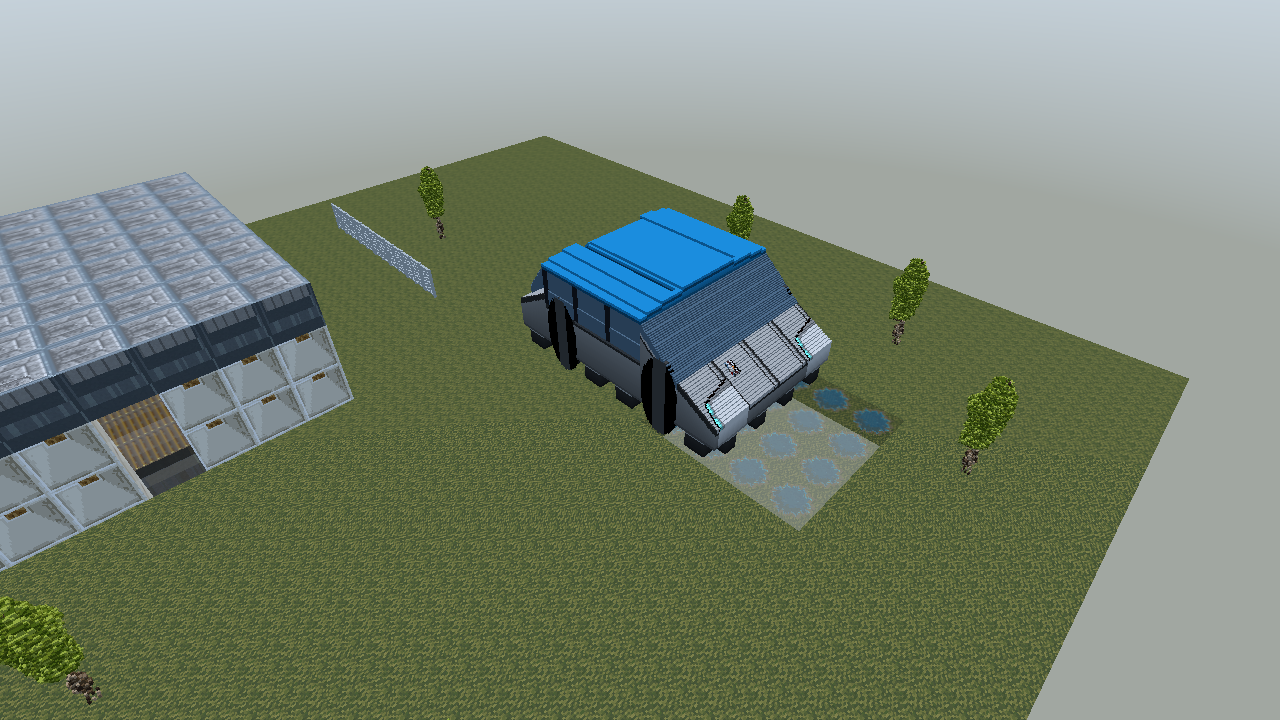
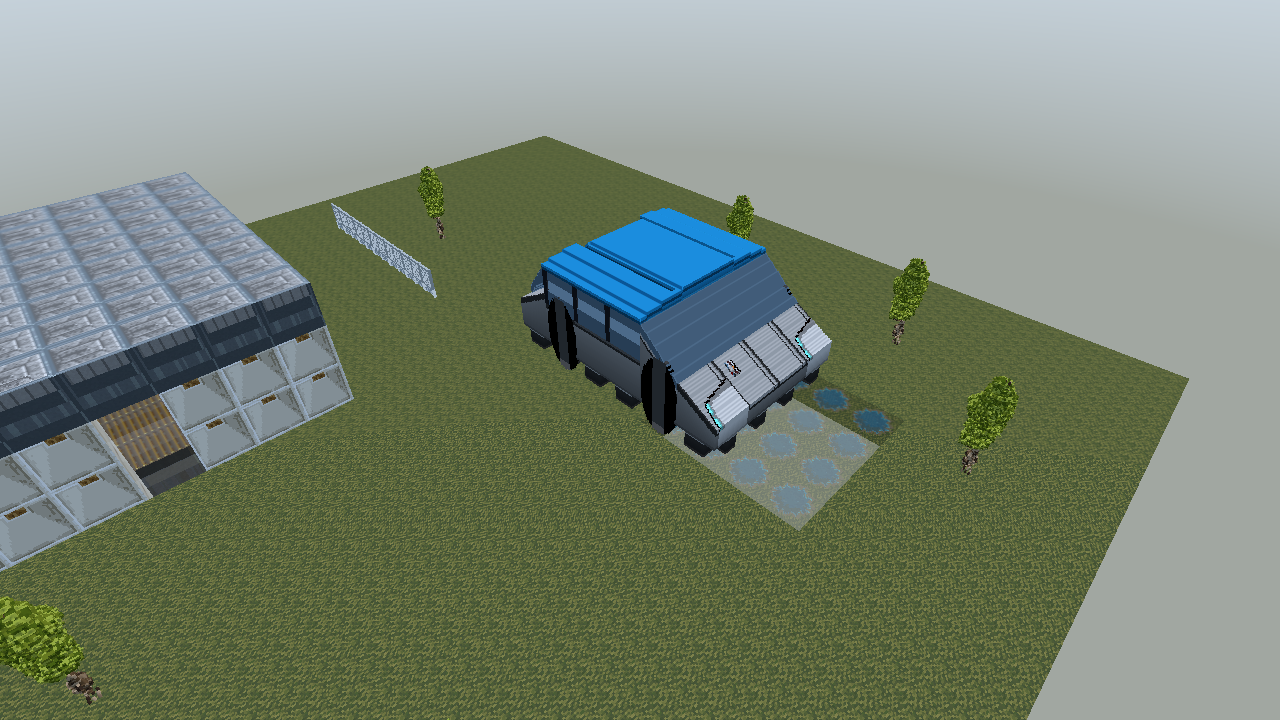
Fine slope normals S2: opt in at scene prep; risers take the plane normal
mesh_filtered_fine now passes slope_normals=true (the single fine-chunk dispatch, so live, snapshot and capture paths all shade slopes). First capture review showed top-face tilting alone left the step lines: each tread shaded as a plane but the 1-cell riser faces between treads still shaded at side-face level. riser_corner_normals extends the treatment to side faces whose neighbouring column surface sits 1..=SLOPE_EDGE_THRESHOLD below the cell top (top-edge corners from this cell's gradient, bottom-edge from the lower neighbour's at the same vertex); walls/cliffs/same-height neighbours keep axis normals. G1 gate 5/5 — the riser test was verified failing on the top-only mesher before the fix. G2: vehicle profile re-capture, 221,840 quads identical (geometry untouched), zero cover-classification changes vs tex6 (silhouette identical), windshield/hood banding gone. G3: golden/phase9/puddle gates pass unchanged — no golden fixture contains a shallow stamped slope, nothing to regen. Residual crown grooves traced to the Stage H per-face occlusion term stepping at the 1-cell steps, recorded in plan §10 as out of scope. Full mesher + engine suites green. Plan doc gains the S2 outcome.

diff --git a/crates/mesher/tests/fine_slope_normals_gate.rs b/crates/mesher/tests/fine_slope_normals_gate.rs
@@ -163,3 +163,78 @@ fn flag_off_is_the_pre_fix_mesh() {
         assert!(axis, "flag-off normal {n:?} is not axis-aligned");
     }
 }
+
+/// The ramp's downhill riser faces (the +X side faces of
+/// ramp cells, exposed because the next column is one cell
+/// lower in surface terms — here the ramp rises along +x,
+/// so the risers face -X... the exposed step faces are the
+/// +X faces of each column's top cell looking down the
+/// staircase's upper side and the -X faces looking up it;
+/// both must carry the plane normal for the staircase to
+/// shade as one surface). Concretely for a ramp rising
+/// along +x: the top cell of column lx has its +X face
+/// culled by column lx+1's cell below the top... the
+/// VISIBLE step faces are the -X faces of each top cell
+/// (against the air above column lx-1's lower top) — no:
+/// face_visible checks the neighbour CELL at the same fz.
+/// Column lx-1 has no cell at fz = top(lx), so the -X face
+/// of column lx's top cell is exposed: it is the riser.
+/// All four of its corners must carry the plane normal.
+#[test]
+fn ramp_riser_faces_carry_the_plane_normal() {
+    let scene = scene(|lx, _ly| 8 + lx);
+    let mesh = mesh(&scene, true);
+    let want = [-std::f32::consts::FRAC_1_SQRT_2, std::f32::consts::FRAC_1_SQRT_2, 0.0];
+    // Riser quads: vertical quads (verts span two world y
+    // levels) whose flat normal would be -X in world terms:
+    // world x = grid x, so a grid -X face has world normal
+    // (-1, 0, 0) when flat; smoothed, its corners tilt to
+    // `want`. Identify candidates by position: interior
+    // columns only, and by the quad's world-x extent being
+    // a single plane (all four verts share one world x).
+    let bs = WorldScale::default().block_size;
+    let lo = (4 * FINE + 5) as f32 / FINE as f32 * bs;
+    let hi = (4 * FINE + 27) as f32 / FINE as f32 * bs;
+    let mut checked = 0usize;
+    for quad in mesh.indices.chunks_exact(6) {
+        let idx: Vec<usize> = quad.iter().map(|i| *i as usize).collect();
+        let p: Vec<[f32; 3]> = idx[..4].iter().map(|&i| mesh.positions[i]).collect();
+        // Vertical plane at constant world x?
+        if p.iter().any(|v| (v[0] - p[0][0]).abs() > 1e-4) {
+            continue;
+        }
+        // Spans exactly one fine cell of height?
+        let (mut ymin, mut ymax) = (f32::MAX, f32::MIN);
+        for v in &p {
+            ymin = ymin.min(v[1]);
+            ymax = ymax.max(v[1]);
+        }
+        if (ymax - ymin - bs / FINE as f32).abs() > 1e-3 {
+            continue;
+        }
+        let cx = p[0][0];
+        let gy = -(p[0][2] + p[2][2]) / 2.0 / bs;
+        if cx < lo || cx > hi || gy < lo || gy > hi {
+            continue;
+        }
+        // Only the downhill-facing risers: their flat
+        // geometric normal (winding) points -x in world.
+        let ab = [p[1][0] - p[0][0], p[1][1] - p[0][1], p[1][2] - p[0][2]];
+        let ac = [p[2][0] - p[0][0], p[2][1] - p[0][1], p[2][2] - p[0][2]];
+        let nx = ab[1] * ac[2] - ab[2] * ac[1];
+        if nx >= 0.0 {
+            continue;
+        }
+        checked += 1;
+        for (k, &i) in idx[..4].iter().enumerate() {
+            let n = mesh.normals[i];
+            for a in 0..3 {
+                assert!(
+                    (n[a] - want[a]).abs() < 0.02,
+                    "riser corner {k} normal {n:?}, want {want:?}"
+                );
+            }
+        }
+    }
+    assert!(checked > 100, "only {checked} interior riser quads checked");
+}

diff --git a/crates/mesher/src/fine.rs b/crates/mesher/src/fine.rs
@@ -822,6 +822,47 @@ fn top_corner_normal(sampler: &FineSampler, fx: i32, fy: i32, fz: i32, dx: i32, 
     [g[0], g[2], -g[1]]
 }
 
+/// Per-corner normals for a SIDE face of the stamped cell at
+/// `(fx, fy, fz)` when the face is a slope RISER: the
+/// neighbouring column's surface is lower than this cell's
+/// top by 1..=[`SLOPE_EDGE_THRESHOLD`] cells, so the face is
+/// one step of a heightfield staircase and takes the sheet's
+/// plane normal — top-edge corners from this cell's gradient
+/// (as [`top_corner_normal`]), bottom-edge corners from the
+/// lower neighbour cell's gradient at the same vertex. Any
+/// other side face (wall, cliff, same-height neighbour)
+/// returns `None` and keeps the axis normal.
+fn riser_corner_normals(
+    sampler: &FineSampler,
+    fx: i32,
+    fy: i32,
+    fz: i32,
+    dir: [i32; 3],
+    di: usize,
+) -> Option<[[f32; 3]; 4]> {
+    let hn = surface_top(sampler, fx + dir[0], fy + dir[1], fz, SLOPE_EDGE_THRESHOLD)?;
+    let h0 = fz + 1;
+    if hn >= h0 || h0 - hn > SLOPE_EDGE_THRESHOLD {
+        return None;
+    }
+    let mut out = [[0.0f32; 3]; 4];
+    for (i, c) in FACE_CORNERS[di].iter().enumerate() {
+        out[i] = if c[2] > 0.5 {
+            top_corner_normal(sampler, fx, fy, fz, c[0] as i32, c[1] as i32)
+        } else {
+            top_corner_normal(
+                sampler,
+                fx + dir[0],
+                fy + dir[1],
+                fz - 1,
+                c[0] as i32 - dir[0],
+                c[1] as i32 - dir[1],
+            )
+        };
+    }
+    Some(out)
+}
+
 /// Mesh one chunk column at fine resolution (Phase 9, 9.4):
 /// the chunk's coarse cells naively (one quad per visible
 /// face, exactly as `mesh_naive` emits them, with the fine
@@ -940,7 +981,9 @@ pub fn mesh_chunk_fine(
                             // (and every face with the opt-in
                             // off) keeps the axis normal.
                             let corner_normals: Option<[[f32; 3]; 4]> =
-                                if slope_normals && di == 4 {
+                                if !slope_normals {
+                                    None
+                                } else if di == 4 {
                                     Some(FACE_CORNERS[di].map(|c| {
                                         top_corner_normal(
                                             &sampler,
@@ -951,6 +994,11 @@ pub fn mesh_chunk_fine(
                                             c[1] as i32,
                                         )
                                     }))
+                                } else if di <= 3 {
+                                    // Side face: the plane
+                                    // normal too when it is a
+                                    // slope riser.
+                                    riser_corner_normals(&sampler, fx, fy, fz, *dir, di)
                                 } else {
                                     None
                                 };

diff --git a/crates/engine/src/scene_prep.rs b/crates/engine/src/scene_prep.rs
@@ -280,7 +280,11 @@ fn mesh_filtered_fine(map: &mesher::chunk::ChunkMap, layer: &FineLayer) -> (Pass
     for coord in coords {
         let chunk = &map.chunks[&coord];
         let pm = if chunk.has_fine {
-            mesher::fine::mesh_chunk_fine(map, layer, coord, map.scale, false)
+            // Slope normals ON for the fine path
+            // (docs/fine-slope-normals.md S2): stamped
+            // heightfields shade as continuous planes
+            // instead of banded staircases.
+            mesher::fine::mesh_chunk_fine(map, layer, coord, map.scale, true)
         } else {
             map.mesh_chunk(coord, true)
         };

diff --git a/docs/fine-slope-normals.md b/docs/fine-slope-normals.md
@@ -161,3 +161,54 @@ Regression: full mesher suite green; engine golden_gate 3/3
 with the flag off everywhere (meshes unchanged), phase9 /
 puddle / raster_tex / frame / phase8 / vehicle_texture gates
 all green.
+
+## 10. S2 outcome (2026-11-24)
+
+Opted in: `scene_prep::mesh_filtered_fine` passes `true` — the
+one dispatch point for fine chunks, so the live path, the
+snapshot path and captures all shade slopes.
+
+Scope completion against §2/§3, driven by G2 evidence: with
+top faces only, the vehicle profile capture still showed the
+step lines — each tread shaded as a plane but every riser
+(the 1-cell vertical face between treads) still shaded at
+side-face level. §2's goal (banding gone) was not met by §3's
+phase-1 letter, so side faces that are slope risers joined
+the treatment: `riser_corner_normals` fires when the
+neighbouring column's surface is 1..=SLOPE_EDGE_THRESHOLD
+below this cell's top; top-edge corners take this cell's
+gradient, bottom-edge corners the lower neighbour's gradient
+at the same vertex. Walls, cliffs and same-height neighbours
+keep axis normals. G1 gained a fifth test
+(`ramp_riser_faces_carry_the_plane_normal`, verified failing
+on the top-only mesher first): 5/5.
+
+G2 (vehicle profile capture, re-rendered through the fine
+prop path): quad count identical to the S1-era capture
+(221,840 — geometry untouched); cover classification changed
+on zero pixels against the tex6 capture (silhouette
+identical); raster distinct colours 9,077 → 11,174. The
+windshield and hood now shade as continuous planes; the
+dense per-step banding is gone.
+
+G3: golden_gate / phase9_render_gate / puddle_water_gate all
+pass UNCHANGED — no golden in the set contains a shallow
+stamped slope (fixture props are flat-topped or cliff-edged),
+so there was nothing to regen or eyeball. The stair case the
+plan asked for is the G1 ramp itself (1-cell steps).
+
+Residual, recorded honestly: the roof crown's two step
+grooves remain faintly visible. Their remaining cause is not
+normals — it is the Stage H geometric occlusion term
+(`face_occlusion`, ×0.89 per occluding neighbour, flat per
+face) stepping at each 1-cell crown step, plus the steps'
+geometry itself. Removing the last trace means per-corner
+occlusion (a separate fine-mesher change, all props
+affected) or a shallower crown (geometry; already a two-pass
+tuning item for the Stage-G vehicle build). Neither is in
+this plan's scope; Joey's call if either is wanted.
+
+Regression: full mesher suite green; full engine suite green
+(lib 33 + every gate target, incl. golden 3/3, phase9 set,
+sky set, stage set, sim set, vehicle_texture 4/4).
+Not pushed (bundle route via Joey's PC, as ever).
